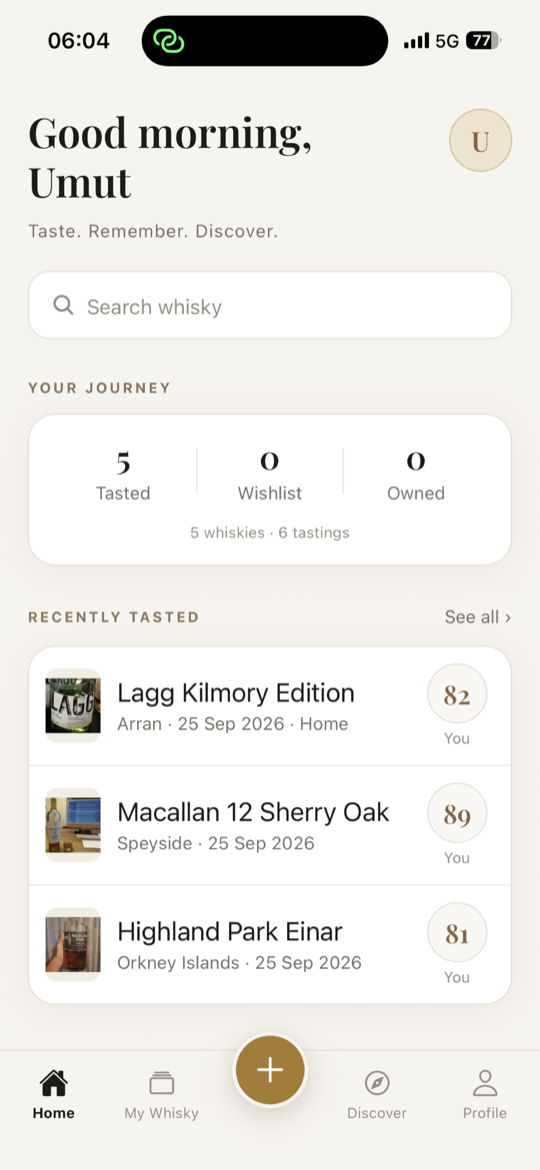
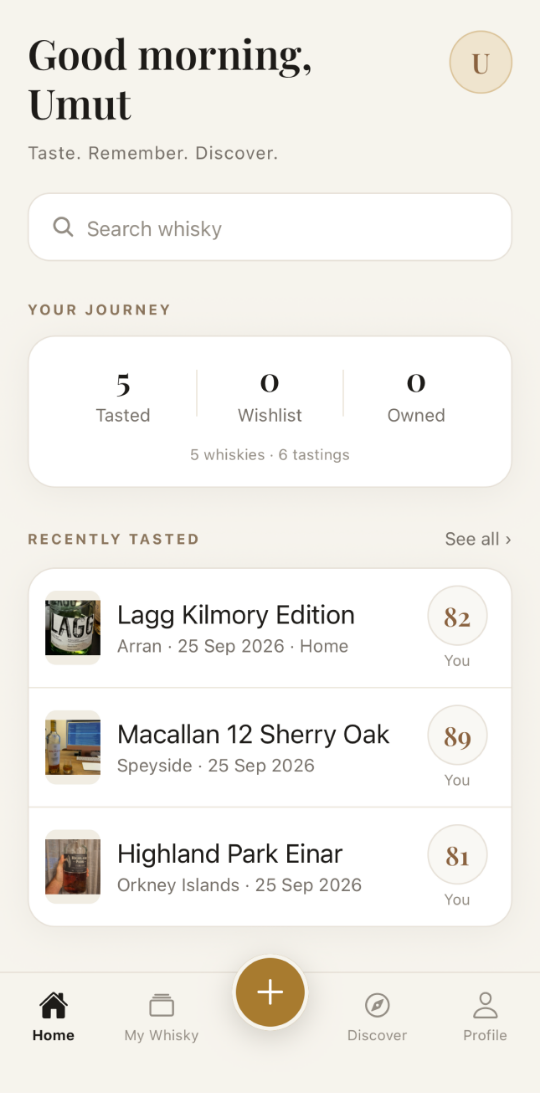
Fix stretched screenshots on the front page, and crop the status bars

diff --git a/index.html b/index.html
@@ -10,10 +10,13 @@
 <link rel="stylesheet" href="style.css">
 <style>
   .hero { text-align: center; padding-block: 8px 24px; }
-  .hero h1 { font-size: clamp(38px, 11vw, 60px); margin: 0 0 8px; line-height: 1.05; }
+  .hero h1 { font-size: clamp(34px, 9vw, 56px); margin: 0 0 8px; line-height: 1.05; overflow-wrap: break-word; }
   .tagline { color: var(--muted); font-size: 18px; margin: 0 auto; max-width: 30ch; }
   .shots { display: grid; grid-template-columns: repeat(3, 1fr); gap: 12px; margin: 32px 0; }
-  .shots img { width: 100%; border-radius: 14px; border: 1px solid var(--border); background: var(--surface); display: block; }
+  /* height:auto matters: without it the width/height attributes below are
+     taken as a fixed box and a 110px-wide column is stretched to 1093px
+     tall, which smears the screenshots into vertical streaks. */
+  .shots img { width: 100%; height: auto; border-radius: 14px; border: 1px solid var(--border); background: var(--surface); display: block; }
   @media (max-width: 560px) { .shots { gap: 8px; } }
   .points { display: grid; gap: 14px; margin: 0 0 32px; padding: 0; list-style: none; }
   .points li { padding-left: 26px; position: relative; color: var(--muted); }
@@ -41,9 +44,9 @@
   </div>
 
   <div class="shots">
-    <img src="shots/1-home.png" alt="The home screen, showing recent tastings with their scores" width="1290" height="2796" loading="lazy">
-    <img src="shots/2-scan.png" alt="The app reading a bottle label from a photograph" width="1290" height="2796" loading="lazy">
-    <img src="shots/3-record.png" alt="Recording a tasting: a score, and notes on nose, palate and finish" width="1290" height="2796" loading="lazy">
+    <img src="shots/1-home.png" alt="The home screen, showing recent tastings with their scores" width="540" height="1093" loading="lazy">
+    <img src="shots/2-scan.png" alt="The app reading a bottle label from a photograph" width="540" height="1093" loading="lazy">
+    <img src="shots/3-record.png" alt="Recording a tasting: a score, and notes on nose, palate and finish" width="540" height="1093" loading="lazy">
   </div>
 
   <ul class="points">
